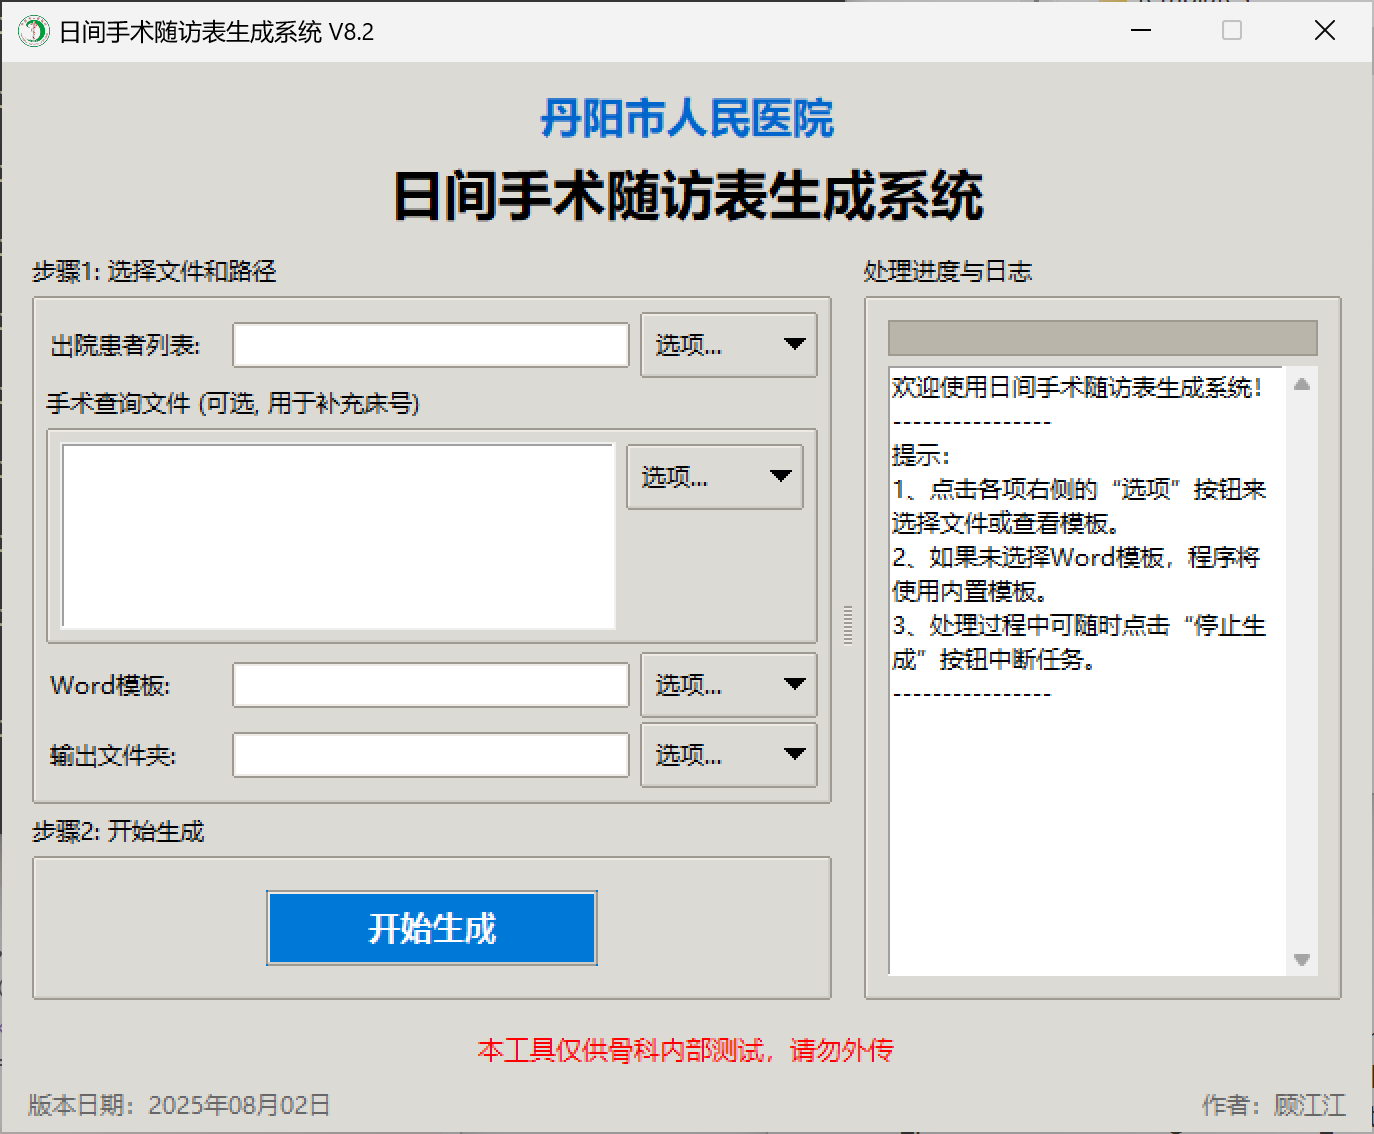
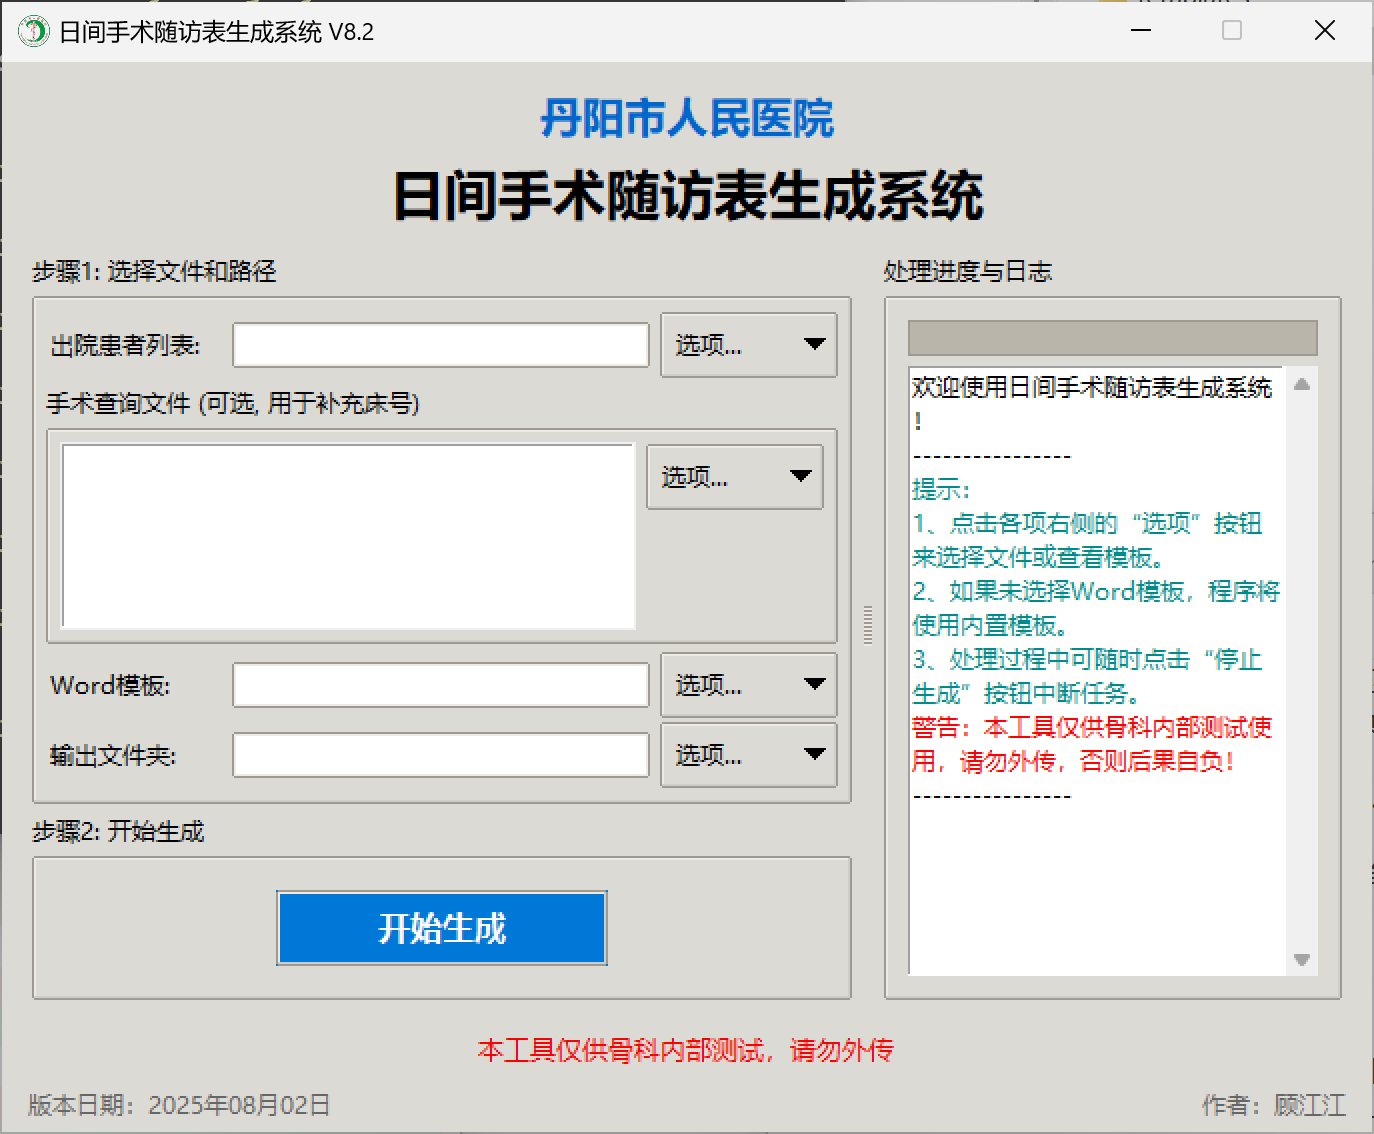
调整部分菜单的顺序
- [优化] 调整部分菜单的顺序，更符合逻辑

diff --git a/source/src/gui/ui_builder.py b/source/src/gui/ui_builder.py
@@ -74,8 +74,8 @@ def create_ui(app):
     file_frame.pack(fill=tk.BOTH, expand=True) 
     
     discharge_menu_items = [
-        ("查看模板", lambda: app.open_template('discharge')),
         ("选择文件", app.select_excel_file),
+        ("查看模板", lambda: app.open_template('discharge')),
         ("---", None),
         ("清空选择", app.clear_excel_selection)
     ]
@@ -92,16 +92,16 @@ def create_ui(app):
     # 手术查询的下拉菜单按钮
     surgery_menubutton = ttk.Menubutton(surgery_buttons_frame, text="选项...", width=8)
     surgery_menu = tk.Menu(surgery_menubutton, tearoff=False)
-    surgery_menu.add_command(label="查看模板", command=lambda: app.open_template('surgery'))
     surgery_menu.add_command(label="添加文件", command=app.select_surgery_query_files)
+    surgery_menu.add_command(label="查看模板", command=lambda: app.open_template('surgery'))
     surgery_menu.add_separator()
     surgery_menu.add_command(label="清空列表", command=app.clear_surgery_query_files)
     surgery_menubutton.config(menu=surgery_menu)
     surgery_menubutton.pack(fill=tk.X, pady=1)
     
     word_menu_items = [
-        ("查看模板", lambda: app.open_template('follow_up')),
         ("选择文件", app.select_template_file),
+        ("查看模板", lambda: app.open_template('follow_up')),
         ("使用内置模板", app.use_builtin_word_template),
         ("---", None),
         ("清空选择", app.clear_template_selection)

diff --git a/README.md b/README.md
@@ -24,16 +24,20 @@
   * **自动化日期处理**: 无需再手动选择“主导月份”。程序会为每位患者自动提取其真实的“出院日期”，并以此为准生成文件名和文档内容，实现完全自动化的精确处理。
   * **精准的失败提醒**: 独有的智能提醒机制，只针对符合“日间手术”条件的患者进行床号匹配失败的汇总提醒，过滤无关信息，让问题定位更快速、更精准。
 
-* ### 现代化且稳定的UI/UX
-  * **专业启动体验**: 支持打包时添加自定义启动画面（Splash Screen），并在主程序就绪后实现无缝切换，同时程序窗口**总是在屏幕中央启动**，尽显专业。
-  * **自适应DPI布局**: 独有的DPI动态缩放技术，能自动识别普通及高分屏(Retina)，并等比例缩放窗口、分栏等布局尺寸，确保在任何显示器上都获得协调、清晰的视觉效果。
-  * **可调节的左右分栏**: 界面采用左右布局，左侧为操作区，右侧为日志区。中间的分割线可以自由拖拽，兼顾了布局的稳定性与操作的灵活性。
-  * **实时进度反馈**: 使用进度条和带颜色区分（警告/错误）的滚动日志框，实时显示处理进度，程序运行状态一目了然。
+* ### 现代化的用户体验 (UI/UX)
+  * **专业启动画面**: 支持自定义启动画面，并在主程序就绪后无缝切换。
+  * **自适应DPI**: 自动识别高分屏(Retina)，并等比例缩放窗口布局，确保在任何显示器上都获得清晰的视觉效果。
+  * **多线程处理**: 将耗时的文件生成任务放在独立的后台线程中执行，确保GUI在处理过程中始终保持响应，不卡顿。
+  * **可中断任务**: 在文档生成期间，可随时点击“停止生成”按钮以安全地中断任务。
+  * **实时进度反馈**: 使用进度条和带颜色区分（提示/警告/错误）的滚动日志框，实时显示处理进度。
+  * **日志管理**: 支持右键菜单清空或导出当前日志为`.txt`文件。
 
 * ### 灵活的配置与高可维护性
-  * **中央配置系统**: 所有关键参数（如日间手术天数定义、Excel列名映射等）均提取到脚本顶部的 `CONFIG` 字典中，方便未来快速调整，无需修改核心代码。
-  * **面向对象重构 (OOP)**: 代码被重构为 `App` (界面) 和 `DocumentGenerator` (逻辑) 两个独立的类，结构清晰，极大地提高了代码的可读性和可维护性。
+  * **中央配置系统**: 所有关键参数（如日间手术天数定义、Excel列名映射等）均提取到 `src/config.py` 文件中，方便未来快速调整，无需修改核心代码。
   * **多线程处理**: 将耗时的文件生成任务放在独立的线程中执行，确保了GUI在处理过程中始终保持响应，提升了用户体验。
+  * **内置模板系统**: 程序内置了标准的Excel和Word模板，可通过UI随时查看。当用户未指定外部Word模板时，将自动使用内置模板。
+  * **安全模板预览**: 查看模板时，程序会创建一份临时的只读副本供用户查看，确保原始模板文件不会被意外修改。
+  * **模块化架构**: 项目代码被全面重构，拆分为独立的界面(`gui`)、核心逻辑(`core`)、配置(`config.py`)等模块，结构清晰，极大地提高了代码的可读性和可维护性。
 
 * ### 清晰的项目结构
     * **模块化设计**: 代码被拆分为配置、工具、核心逻辑和界面等模块，结构清晰，易于维护。
@@ -49,19 +53,20 @@
 ├── docs/                     # 存放文档和相关资源
 │   ├── BUILD_GUIDE.md        # 程序打包指南
 │   ├── changelog.md          # 更新日志
-│   ├── images/               # 文档用图片 (如截图)
-│   │   ├── icons/            # 可选图标
-│   │   └── screenshots/      # 软件截图
-│   └── templates/            # Word/Excel模板
+│   └── images/               # 文档用图片 (如截图)
+│       ├── icons/            # 可选图标
+│       └── screenshots/      # 软件截图
 ├── source/                   # 源代码目录
 │   ├── main.py               # 🚀 主程序入口
 │   ├── requirements.txt      # 📦 依赖列表
 │   ├── assets/               # 🎨 存放资源文件
 │   │   ├── app.ico           # 程序图标
 │   │   └── splash.png        # 启动画面
+│   ├── templates/            # 📂 内置模板文件夹
 │   └── src/                  # 模块目录
 │       ├── __init__.py       # 将src声明为可导入的包
 │       ├── config.py         # 全局配置
+│       ├── temp_manager.py   # 临时文件管理器
 │       ├── utils.py          # 工具函数
 │       ├── core/             # 核心逻辑模块
 │       │   ├── __init__.py
@@ -88,6 +93,7 @@
 * `app_title`: 窗口标题。
 * `day_surgery_max_days`: 定义日间手术的最大住院天数。
 * `follow_up_days`: 定义随访发生于出院后的天数。
+* `welcome_message`, `welcome_tips`, `welcome_warning`: 自定义程序启动时在日志区显示的欢迎语。
 * `unknown_bed_placeholder`: 定义在Word文档内容中，当床号未知时显示的占位符。
 * `unknown_bed_filename_suffix`: 定义当床号未知时，在文件名末尾添加的后缀。
 * `column_mapping`: **核心配置**。定义了程序内部字段名与您Excel文件中列名的对应关系。如果您的Excel列名有变，只需修改此处的中文部分即可。

diff --git a/docs/BUILD_GUIDE.md b/docs/BUILD_GUIDE.md
@@ -120,7 +120,7 @@ python -m nuitka `
   --mingw64 `
   --output-dir=build `
   --output-filename="day_durgery_form_automator.exe" `
-  --file-version=8.2.9.1 `
+  --file-version=8.2.10.1 `
   --product-version=8.2 `
   --company-name="Danyang People's Hospital" `
   --product-name="Day Surgery Form Automator" `
@@ -141,7 +141,7 @@ python -m nuitka ^
   --mingw64 ^
   --output-dir=build ^
   --output-filename="day_durgery_form_automator.exe" ^
-  --file-version=8.2.9.1 `
+  --file-version=8.2.10.1 `
   --product-version=8.2 `
   --company-name="Danyang People's Hospital" `
   --product-name="Day Surgery Form Automator" `

diff --git a/docs/changelog.md b/docs/changelog.md
@@ -210,3 +210,4 @@
 - [优化] 明确了Word模板为必选项。程序现在要求用户必须主动选择一个外部模板文件或明确点击“使用内置模板”选项，避免了因未选择而产生的默认行为。
 - [新增] 首次打开应用时，日志区会显示警告语。
 - [新增] 为日志区域添加右击菜单，新增清空日志功能和导出日志功能
+- [优化] 调整部分菜单的顺序，更符合逻辑
